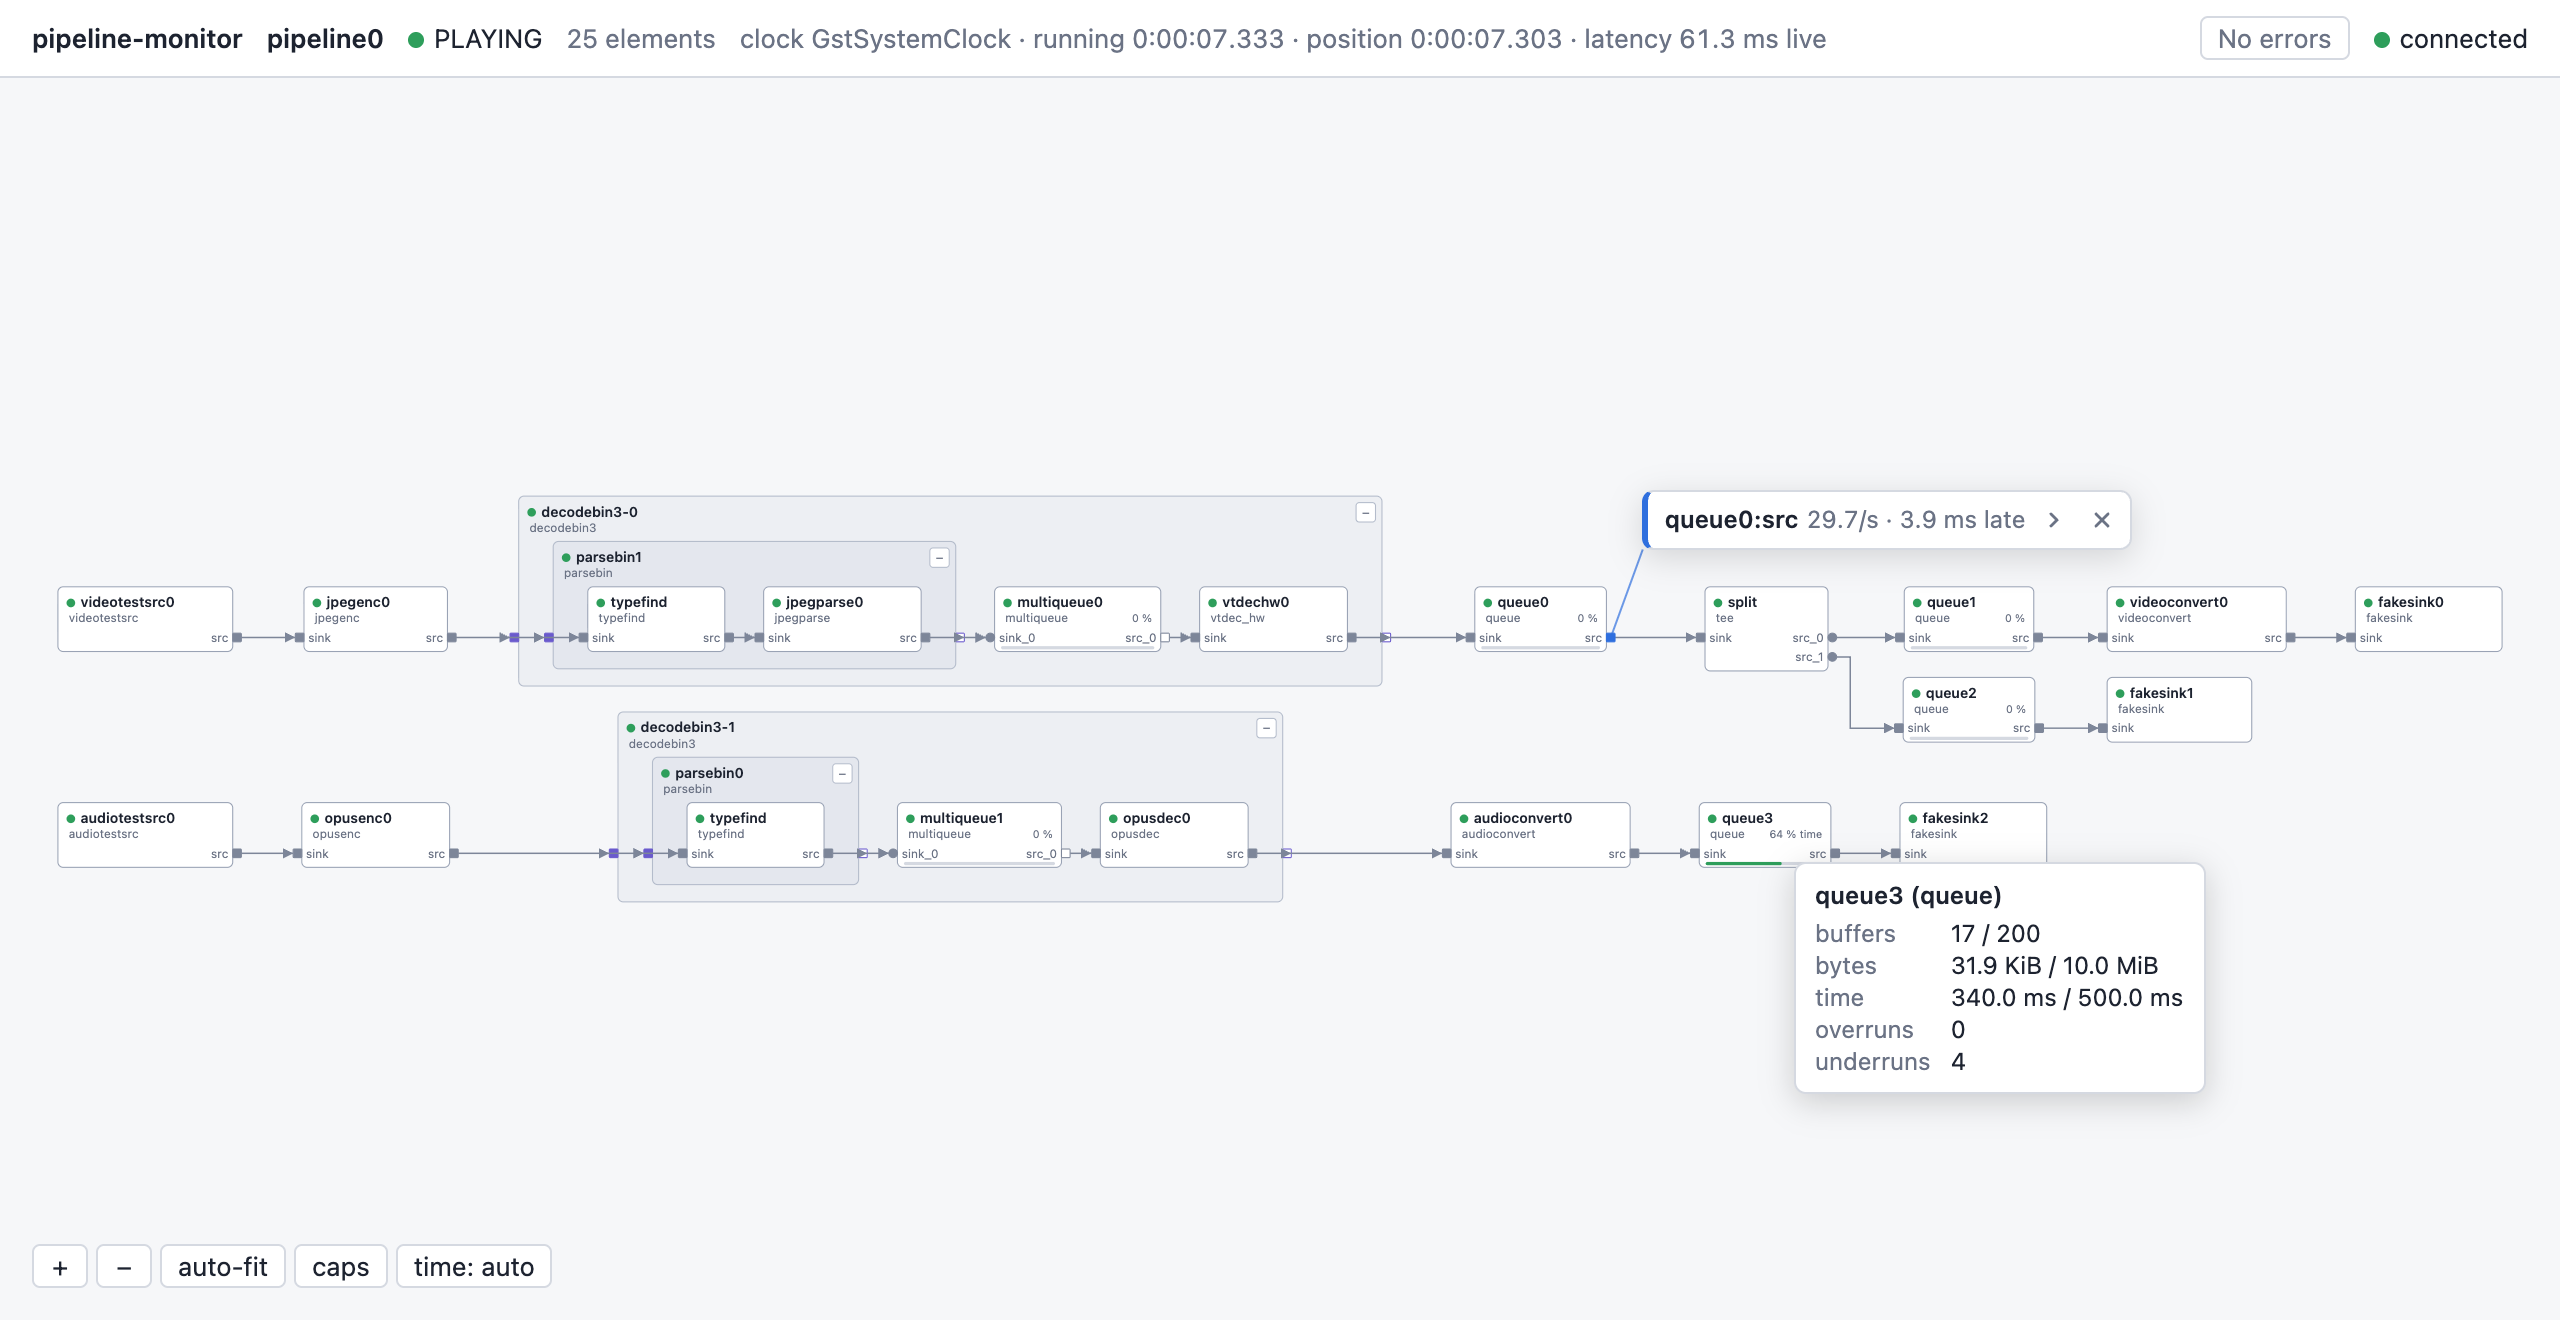
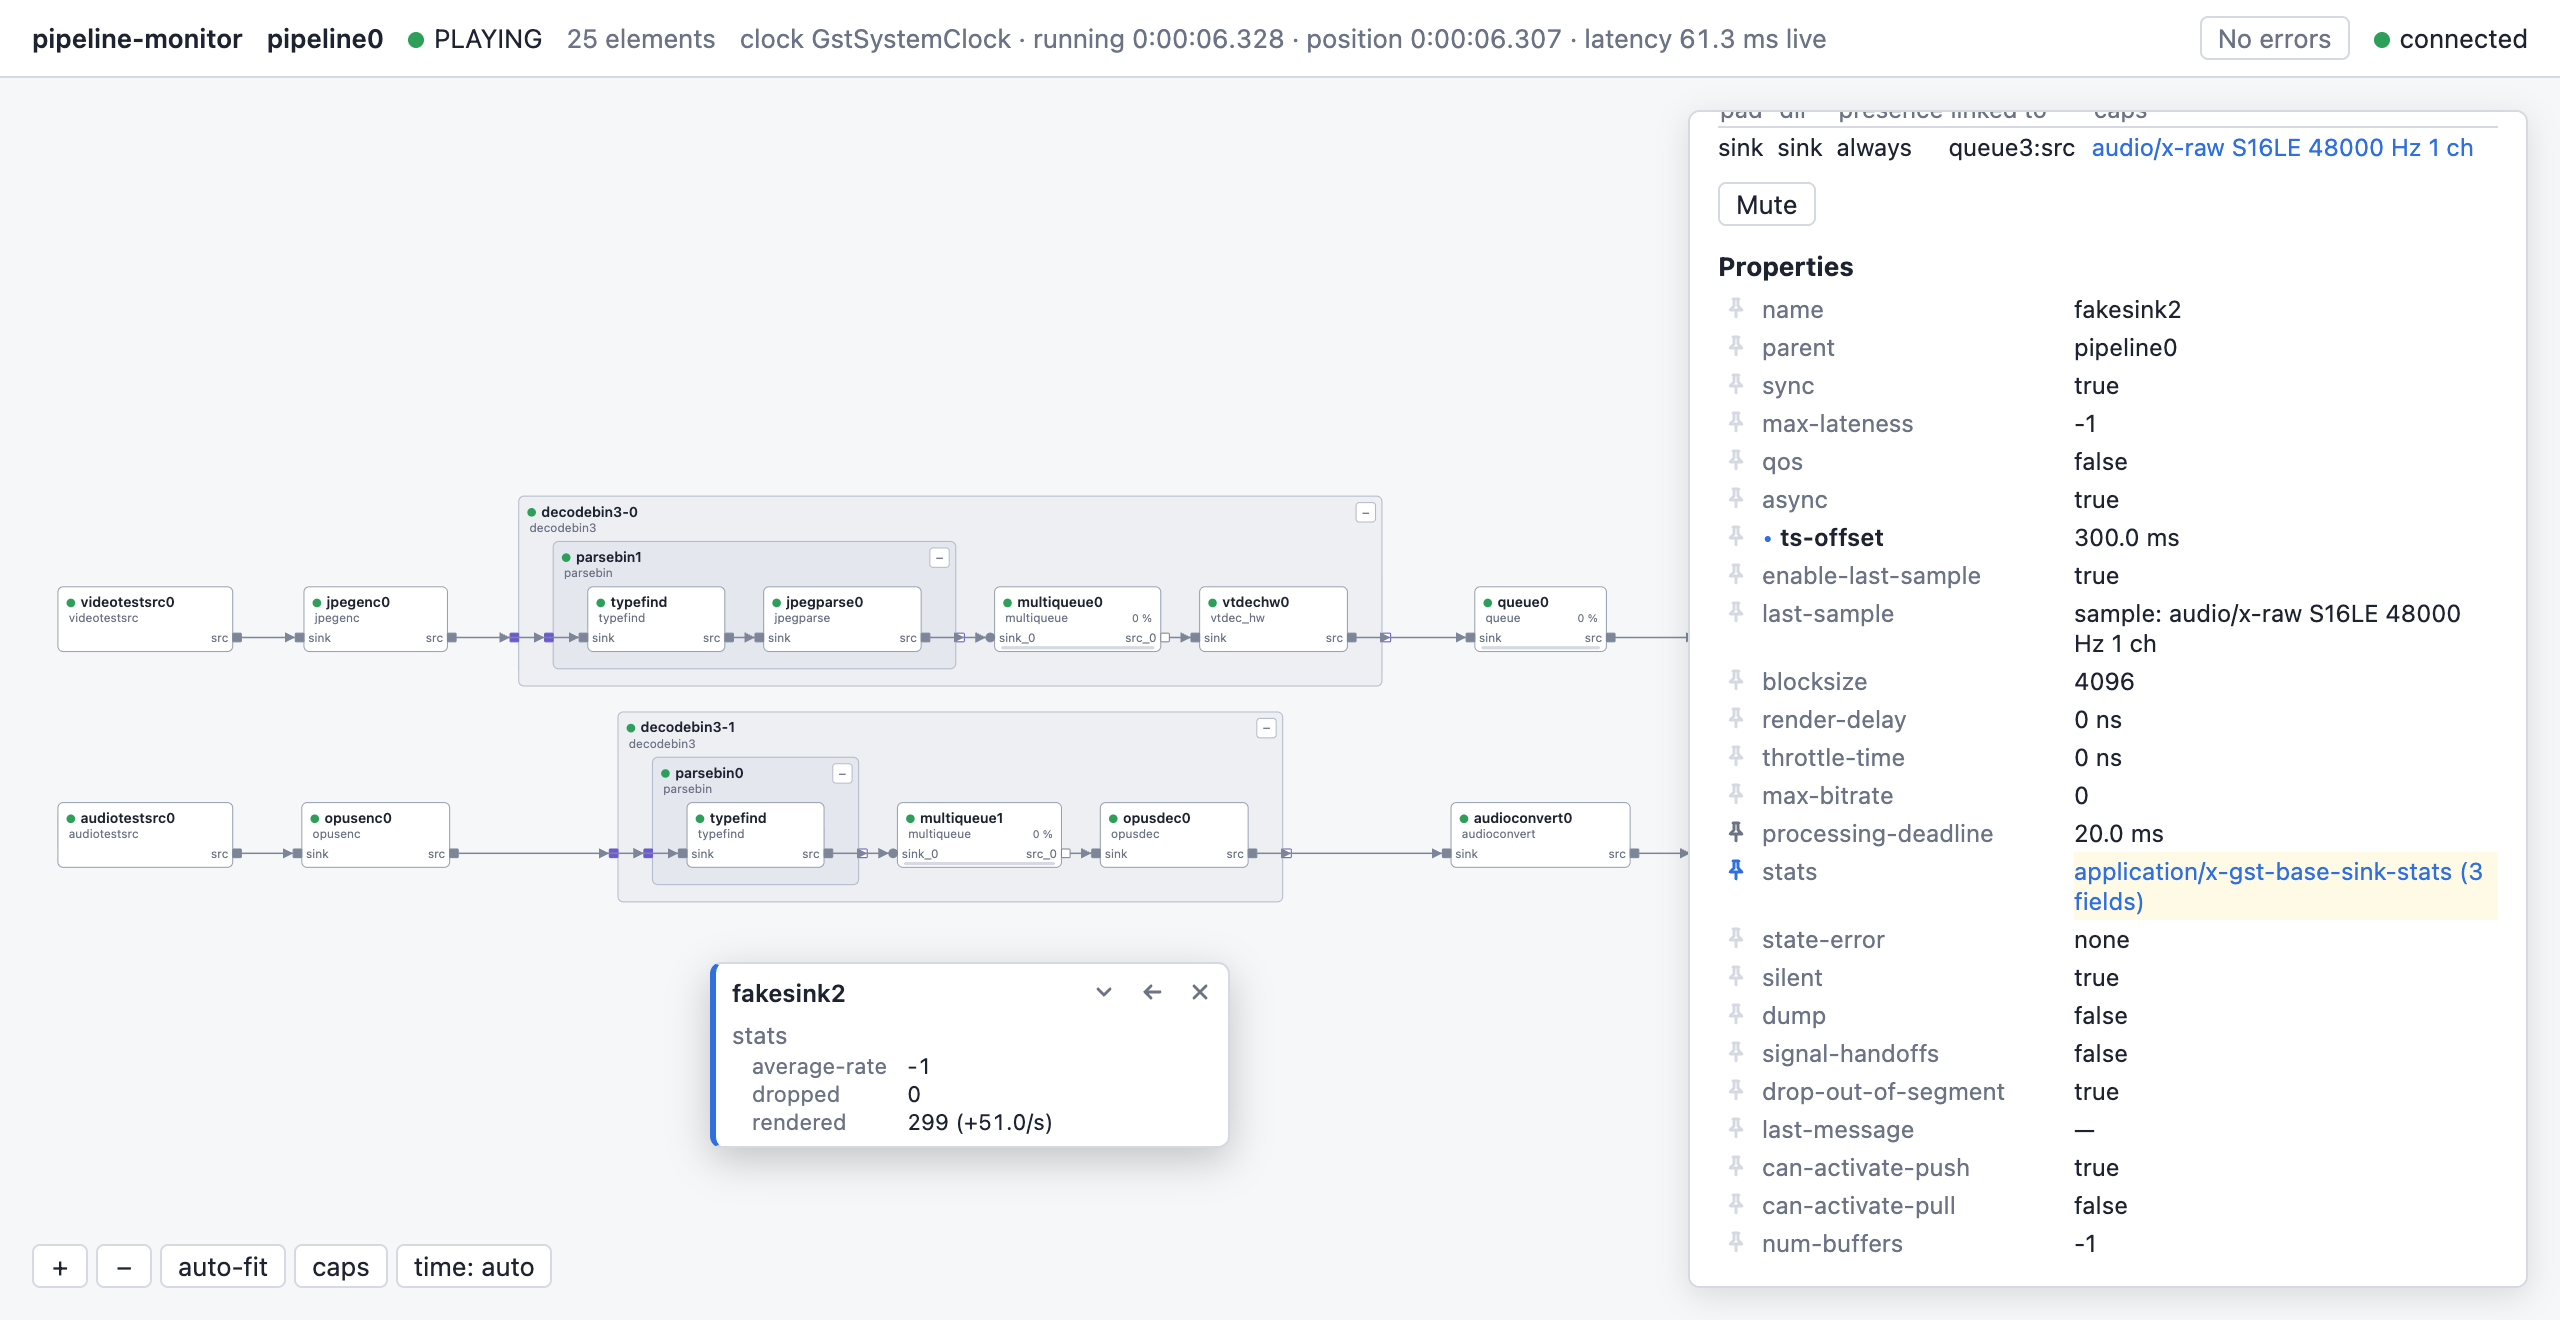
Update README for 0.5

diff --git a/tests/test_ui.py b/tests/test_ui.py
@@ -694,17 +694,29 @@ def screenshot(browser, url, path):
     browser.call("Page.navigate", url=url)
     assert browser.wait(f"{NODES} > 0")
     time.sleep(1)
-    # A pinned video pad folded to one line above its pad (still anchored),
-    # and the tooltip of the audio queue, which the late sink keeps filled.
-    port = browser.eval(pad_id_expression("queue0", "src"))
-    browser.click_point(f"document.querySelector('#graph "
-                        f"[data-port=\"p{port}\"]')")
-    time.sleep(0.3)
-    browser.click(".pin-card .pin-fold")
-    browser.drag(".pin-card .pin-head", 0, -90)
-    time.sleep(3)
-    browser.hover(f"{element_selector('queue3')}?.querySelector('rect.box')")
+    # The audio sink's properties in the details panel, its "stats" pinned
+    # to a card moved to the free space below the graph.
+    sink = browser.eval(f"{element_selector('fakesink2')}?.dataset.id")
+    rows = "[...document.querySelectorAll('#details table.props tr')]"
+    browser.click_until(f'#graph .node[data-id="{sink}"] > rect.box',
+                        f"{rows}.some(r => r.cells[1]?.textContent === "
+                        "'stats')")
+    browser.eval(f"{rows}.find(r => r.cells[1]?.textContent === 'stats')"
+                 ".querySelector('.pin-prop').click()")
+    browser.wait("!!document.querySelector('.pin-card')")
+    # The card opens next to the sink, under the panel: move it with the
+    # panel closed, then open the panel again.
+    browser.click("#details .close")
     time.sleep(0.5)
+    browser.drag(".pin-card .pin-head", -760, 60)
+    browser.click_until(f'#graph .node[data-id="{sink}"] > rect.box',
+                        f"{rows}.some(r => r.cells[1]?.textContent === "
+                        "'stats')")
+    time.sleep(0.5)
+    browser.eval("document.querySelector('#details').scrollTop = "
+                 "document.querySelector('#details h3:last-of-type')"
+                 ".offsetTop - 12")
+    time.sleep(3)
     browser.screenshot(path)
 
 

diff --git a/README.md b/README.md
@@ -2,7 +2,7 @@
 
 See a running GStreamer pipeline live in your browser.
 
-![pipeline-monitor showing a video and an audio branch, queue fill bars with the levels of one queue, the pipeline clock and times in the header, and a pinned pad](.github/screenshot.png)
+![pipeline-monitor showing a video and an audio branch with queue fill bars, the pipeline clock and times in the header, the properties of the audio sink, and its stats pinned to a live card](.github/screenshot.png)
 
 pipeline-monitor is a GStreamer tracer plugin. Enable it with one environment
 variable, without changing your application, and open http://127.0.0.1:8765/.
@@ -23,6 +23,9 @@ variable, without changing your application, and open http://127.0.0.1:8765/.
   against their limits, overruns, underruns and buffering
 - Pipeline clock and times in the header: clock and its provider, running
   time, position and duration, latency
+- Element properties in the details panel, with values changed from the
+  default marked; pin any of them (e.g. a sink's or jitterbuffer's `stats`)
+  to a live card next to the element, with rates for counters
 - Element details, collapsible bins, light and dark theme
 - Local only: listens on 127.0.0.1 and loads nothing from the internet
 
@@ -104,8 +107,9 @@ machine and only from its own page.
 
 ## Status
 
-Version 0.4 shows the pipeline graph, errors and warnings, negotiated caps,
-live values of pinned pads, queue fill and the pipeline's clock and times.
+Version 0.5 shows the pipeline graph, errors and warnings, negotiated caps,
+live values of pinned pads, queue fill, the pipeline's clock and times, and
+element properties, live when pinned.
 It is tested on macOS (Apple Silicon) with GStreamer 1.28.8, and in CI on
 Ubuntu 24.04 (GStreamer 1.24), Debian 12 (GStreamer 1.22), macOS (Homebrew)
 and Windows (official GStreamer 1.28.8, MSVC).
